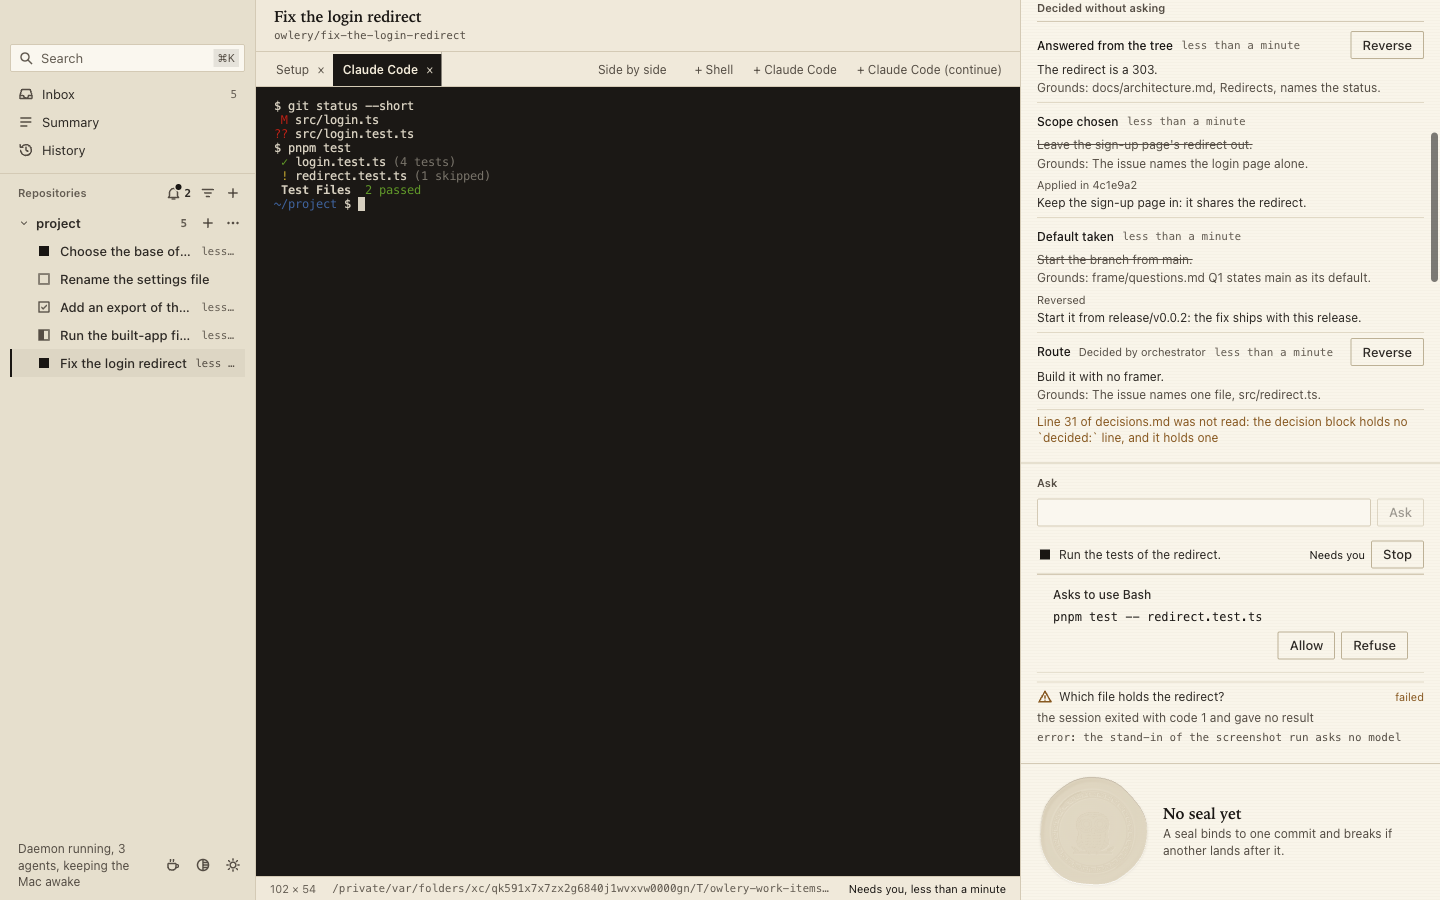
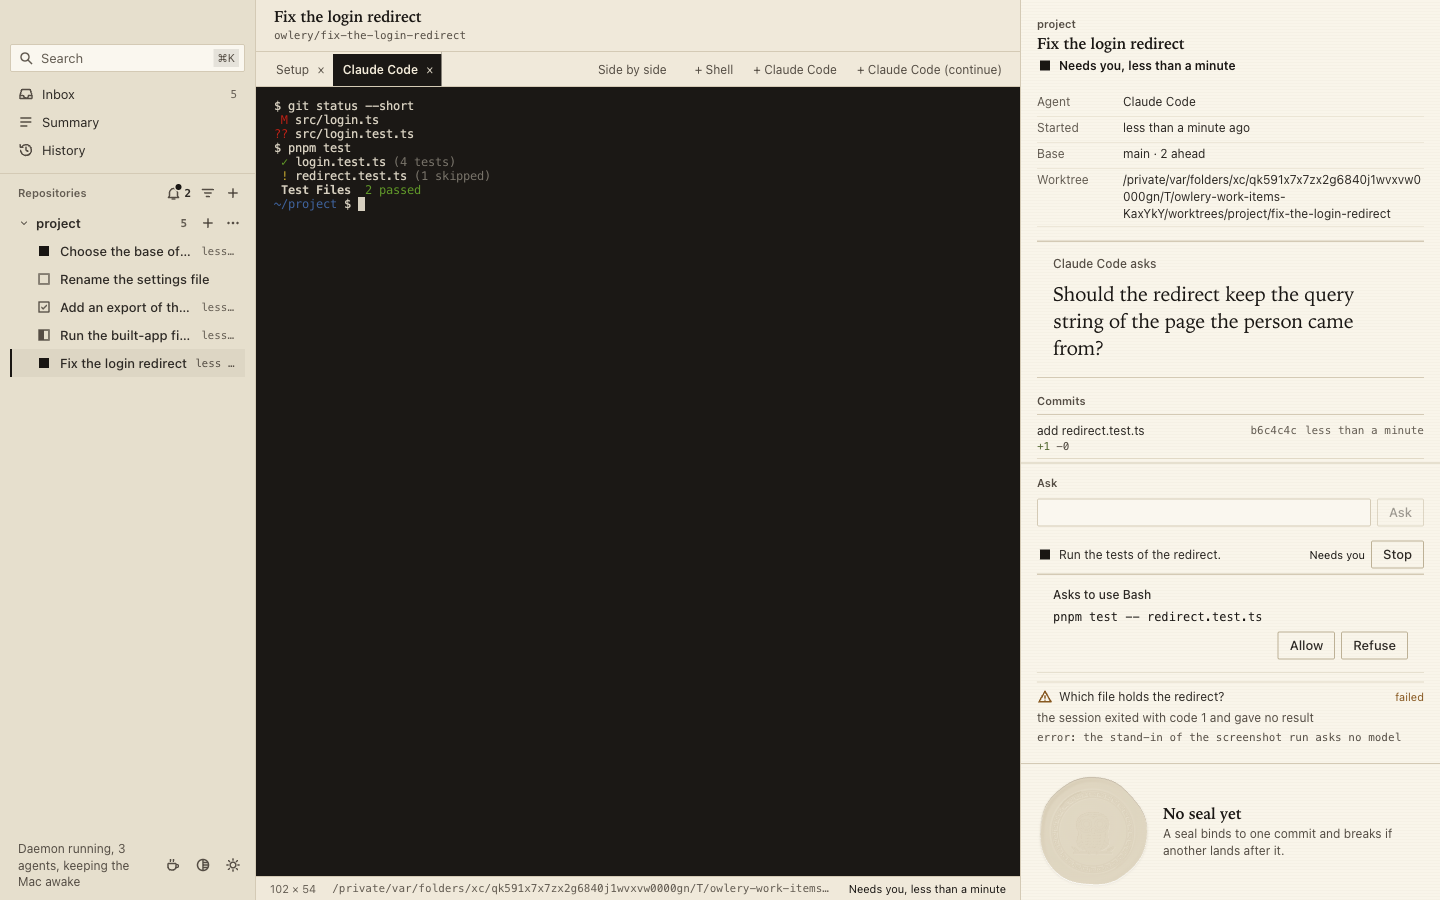
test: give the screenshot run's view work item no decision and a setup that succeeds, and make its twelve shots again
The work item whose session asks to allow a command carried the decision
mark and "Setup failed" on its inbox line, which took the second row's
width before the request's text, so the inbox shots read "Asks..." alone.
The run now writes no decision record into that work item and ends its
setup with code 0, so its line shows "Asks to use Bash: " and the command
whole. The other work items are made as before. Both editions of
docs/design.md describe the run as it now is.

Seal-Routing: 1795338000-role-tools-and-permissions

diff --git a/apps/desktop/test/screenshots.test.ts b/apps/desktop/test/screenshots.test.ts
@@ -10,17 +10,16 @@
 // and holds the second, whose session asks the person to allow a command and
 // gets no answer, so the work item's line says the request and the view's
 // "Ask" section shows its card. The run waits until the section shows that
-// request before its first shot. No stage runs either: the decisions made without
-// asking and the questions are blocks the run writes into the two work
-// items' records, which the daemon reads in their worktrees. The repository
-// names a setup once three work items stand, so the one at work shows its
-// setup running, the one in the view has a setup that failed, with the paths
-// it copied and one it could not, and the form names the setup's command;
-// no setup's command runs, and the run types the code a setup pane ends
-// with. The side column of a view holds more than the window shows at once,
-// so the run scrolls it: the view's shot opens at the decisions made without
-// asking, with the "Setup" section below what it shows, and the parked
-// view's shot opens at the column's top, where its questions stand. With
+// request before its first shot. That work item carries no decision made
+// without asking and no setup's words on its line, so the line's second row
+// gives its whole width to the request. No stage runs either: the questions
+// are blocks the run writes into the parked work item's record, which the
+// daemon reads in its worktree. The repository names a setup once three
+// work items stand, so the one at work shows its setup running, the one in
+// the view has a setup that succeeded, with the paths it copied, and the
+// form names the setup's command; no setup's command runs, and the run
+// types the code a setup pane ends with. Each view's shot opens at the top
+// of its side column, where the parked view's questions stand. With
 // `OWLERY_SCREENSHOT_THEMES` it captures other themes too: `all`, or names
 // with commas between them. It writes into `screenshots/<the run's start>`
 // under the app's folder, or into the folder `OWLERY_SCREENSHOT_DIR` names.
@@ -29,10 +28,10 @@
 // carries the files.
 import { createHash } from "node:crypto";
 import { execFileSync } from "node:child_process";
-import { chmodSync, mkdirSync, readFileSync, rmSync, writeFileSync } from "node:fs";
+import { mkdirSync, readFileSync, rmSync, writeFileSync } from "node:fs";
 import { dirname, join, resolve } from "node:path";
 import { afterAll, beforeAll, describe, expect, it } from "vitest";
-import { RECORD_FILE, withApplied, withDecision, withQuestion, withReversal } from "../src/daemon/decision-record";
+import { RECORD_FILE, withQuestion } from "../src/daemon/decision-record";
 import { MARKER } from "../src/daemon/records-place";
 import { WINDOW_SIZE } from "../src/main/window-size";
 import type { ClientMessage, ServerMessage, SessionInfo, WorkItem, WorktreeSetup } from "../src/shared/protocol";
@@ -56,12 +55,12 @@ const SAMPLE_PANE = join(__dirname, "fixtures", "sample-pane.sh");
  * is the one whose view and menu are captured, and it is the one that needs
  * the person.
  */
-const WORK_ITEMS: { title: string; kind: "shell" | "claude"; events: Record<string, unknown>[]; setup: "running" | "failed" | null }[] = [
+const WORK_ITEMS: { title: string; kind: "shell" | "claude"; events: Record<string, unknown>[]; setup: "running" | "succeeded" | null }[] = [
   { title: "Choose the base of the hotfix", kind: "shell", events: [], setup: null },
   { title: "Rename the settings file", kind: "shell", events: [], setup: null },
   { title: "Add an export of the history", kind: "claude", events: [{ hook_event_name: "UserPromptSubmit" }, { hook_event_name: "Stop", last_assistant_message: "The history exports as a CSV file from the menu of the history screen, and four cases hold the columns." }], setup: null },
   { title: "Run the built-app files one at a time", kind: "claude", events: [{ hook_event_name: "UserPromptSubmit" }, { hook_event_name: "PreToolUse", tool_name: "Bash" }], setup: "running" },
-  { title: "Fix the login redirect", kind: "claude", events: [{ hook_event_name: "UserPromptSubmit" }, { hook_event_name: "Notification", message: "Should the redirect keep the query string of the page the person came from?" }], setup: "failed" },
+  { title: "Fix the login redirect", kind: "claude", events: [{ hook_event_name: "UserPromptSubmit" }, { hook_event_name: "Notification", message: "Should the redirect keep the query string of the page the person came from?" }], setup: "succeeded" },
 ];
 /**
  * The ignored files of the repository's main checkout, each with what it
@@ -73,32 +72,14 @@ const IGNORED: Record<string, string> = {
   "node_modules/left-pad/index.js": "module.exports = (text) => text;\n",
   "certs/localhost-key.pem": "-----BEGIN PRIVATE KEY-----\n",
 };
-/** The file of `IGNORED` nobody may read once the work item whose setup fails is made, so its setup cannot copy it. */
-const UNREADABLE = "certs/localhost-key.pem";
 /** What the main checkout's `.worktreeinclude` and `.worktreesetup` hold where a work item is made with a setup. No pane of the run runs the command. */
 const SETUP_FILES = { ".worktreeinclude": ".env\n**/.env.local\nnode_modules/\n*.pem\n", ".worktreesetup": "pnpm install\n" };
-/** The code the setup pane of a work item whose setup fails ends with, as the run types it into the pane. */
-const SETUP_FAILS_WITH = 1;
+/** The code the setup pane of a work item whose setup succeeds ends with, as the run types it into the pane. */
+const SETUP_ENDS_WITH = 0;
 /** The last work item made. */
 const SHOWN = WORK_ITEMS[WORK_ITEMS.length - 1]?.title ?? "";
 /** The first work item made, which the run parks with `QUESTIONS`. Its view is the view "parked". */
 const PARKED = WORK_ITEMS[0]?.title ?? "";
-/**
- * The decisions made without asking that the run writes into the shown work
- * item's record, in the record's order: one that stands and says who decided,
- * one the person reversed, with the message, one a stage applied after its
- * reversal, and one that stands and names no one.
- */
-const DECISIONS = [
-  { kind: "route", decided: "Build it with no framer.", grounds: "The issue names one file, src/redirect.ts.", by: "orchestrator" },
-  { kind: "default", decided: "Start the branch from main.", grounds: "frame/questions.md Q1 states main as its default." },
-  { kind: "scope", decided: "Leave the sign-up page's redirect out.", grounds: "The issue names the login page alone." },
-  { kind: "answered", decided: "The redirect is a 303.", grounds: "docs/architecture.md, Redirects, names the status." },
-] as const;
-const REVERSAL = "Start it from release/v0.0.2: the fix ships with this release.";
-const TAKEN_IN = "Keep the sign-up page in: it shares the redirect.";
-/** A block the record's reader refuses, a decision with no `decided:` line, which the view names as a line that was not read. */
-const REFUSED = "```seal\ndecision: 9 scope\n```\n";
 /** The questions the parked work item waits on. */
 const QUESTIONS = [
   { asks: "Which base does the hotfix merge into?", grounds: "No document names the base of a hotfix, and the choice decides which release ships it.", by: "sealer", options: [{ label: "main", implies: "It waits for the next release." }, { label: "release/v0.0.2", implies: "It ships with this release." }], default: "release/v0.0.2" },
@@ -218,17 +199,12 @@ describe.skipIf(!RUN)("the screenshots of the built app", () => {
     return (await listed()).workItems.find((item) => item.title === title)?.setup ?? null;
   }
 
-  /**
-   * Makes the main checkout name a setup, or none, before a work item is
-   * made: its two files, and `UNREADABLE` read by nobody where the setup is
-   * to fail, and readable by its owner otherwise.
-   */
-  function nameSetup(setup: "running" | "failed" | null): void {
+  /** Makes the main checkout name a setup, or none, before a work item is made: its two files. */
+  function nameSetup(setup: "running" | "succeeded" | null): void {
     for (const [file, text] of Object.entries(SETUP_FILES)) {
       if (setup === null) rmSync(join(made.repo, file), { force: true });
       else writeFileSync(join(made.repo, file), text);
     }
-    chmodSync(join(made.repo, UNREADABLE), setup === "failed" ? 0o000 : 0o600);
   }
 
   /** Hands the daemon a hook's event for a pane, as the hook's own command does: the pane's id on a line and the event's JSON after it, to the socket named from inside its folder. */
@@ -271,14 +247,10 @@ describe.skipIf(!RUN)("the screenshots of the built app", () => {
     view: async () => {
       await app.click(SIDEBAR_LINE);
       await app.until(`!document.getElementById("work-item-view").hidden && document.getElementById("view-title").textContent === ${JSON.stringify(SHOWN)} && document.querySelector("#stage .pane .xterm-scrollable-element") && document.querySelector("#view-detail section.setup")`, "the work item's view with its terminal and its setup");
-      // The decisions stand below what the agent asks, and the commits, the changes and the "Setup" section below them, so the side column scrolls until the decisions open what it shows.
-      await app.evaluate(`document.querySelector("#view-detail section.decisions").scrollIntoView({ block: "start", behavior: "instant" })`);
     },
     parked: async () => {
       await app.click(PARKED_LINE);
       await app.until(`!document.getElementById("work-item-view").hidden && document.getElementById("view-title").textContent === ${JSON.stringify(PARKED)} && !document.getElementById("questions").hidden && document.querySelectorAll("#questions fieldset[data-question]").length === ${QUESTIONS.length}`, "the parked work item's view with its questions");
-      // The questions stand first in the side column, which may still be where the view's shot scrolled it.
-      await app.evaluate(`document.getElementById("view-scroll").scrollTop = 0`);
     },
     menu: async () => {
       await show.inbox();
@@ -344,9 +316,9 @@ describe.skipIf(!RUN)("the screenshots of the built app", () => {
       if (begun?.state !== "running" || begun.paneId === null) throw new Error(`the setup of ${title} is not running in a pane: ${JSON.stringify(begun)}`);
       if (setup === "running") continue;
       // The setup pane waits for the code its command ends with, on a line.
-      await listed({ type: "input", id: begun.paneId, data: `${SETUP_FAILS_WITH}\n` });
-      for (const deadline = Date.now() + 15_000; (await setupOf(title))?.state !== "failed"; await new Promise((resolve) => setTimeout(resolve, 100))) {
-        if (Date.now() >= deadline) throw new Error(`the setup of ${title} never failed`);
+      await listed({ type: "input", id: begun.paneId, data: `${SETUP_ENDS_WITH}\n` });
+      for (const deadline = Date.now() + 15_000; (await setupOf(title))?.state !== "succeeded"; await new Promise((resolve) => setTimeout(resolve, 100))) {
+        if (Date.now() >= deadline) throw new Error(`the setup of ${title} never succeeded: ${JSON.stringify(await setupOf(title))}`);
       }
     }
     await app.until(`document.getElementById("strip-state").classList.contains("waiting")`, `${SHOWN} as the one that needs the person`);
@@ -358,20 +330,14 @@ describe.skipIf(!RUN)("the screenshots of the built app", () => {
     commitFile(shown.worktree, "redirect.test.ts");
     await app.until(`document.querySelectorAll("#view-detail .commit").length === 2 && document.querySelectorAll("#view-detail .file").length === 2`, "the two commits and the two changed files", 15_000);
 
-    // The records of two work items, written into their worktrees as a stage would write them: the directory with the routing that names the branch, and the record. The daemon reads each at its next pass.
-    const record = (title: string, text: string): void => {
-      const item = planted.find((workItem) => workItem.title === title);
-      if (!item) throw new Error(`the daemon lists no work item ${title}`);
-      const directory = join(item.worktree, "seal", "threads", `1-${item.branch.replace(/^.*\//, "")}`);
-      mkdirSync(directory, { recursive: true });
-      writeFileSync(join(item.worktree, "seal", "README.md"), `${MARKER}\n`);
-      writeFileSync(join(directory, "routing.md"), `| Axis | Answer |\n|---|---|\n| Review | through the review chain |\n| Destination | open the pull request |\n| Branch | ${item.branch} |\n`);
-      writeFileSync(join(directory, RECORD_FILE), text);
-    };
-    const planted = (await listed()).workItems;
-    record(SHOWN, withApplied(withReversal(withReversal(DECISIONS.reduce(withDecision, ""), 2, REVERSAL), 3, TAKEN_IN), 3, "4c1e9a2") + REFUSED);
-    record(PARKED, QUESTIONS.reduce(withQuestion, ""));
-    await app.until(`document.querySelectorAll("#view-detail .decision").length === ${DECISIONS.length} && document.querySelector("#view-detail .decisions .unread")`, "the decisions and the line that was not read", 15_000);
+    // The parked work item's record, written into its worktree as a stage would write it: the directory with the routing that names the branch, and the record. The daemon reads it at its next pass.
+    const parked = (await listed()).workItems.find((workItem) => workItem.title === PARKED);
+    if (!parked) throw new Error(`the daemon lists no work item ${PARKED}`);
+    const directory = join(parked.worktree, "seal", "threads", `1-${parked.branch.replace(/^.*\//, "")}`);
+    mkdirSync(directory, { recursive: true });
+    writeFileSync(join(parked.worktree, "seal", "README.md"), `${MARKER}\n`);
+    writeFileSync(join(directory, "routing.md"), `| Axis | Answer |\n|---|---|\n| Review | through the review chain |\n| Destination | open the pull request |\n| Branch | ${parked.branch} |\n`);
+    writeFileSync(join(directory, RECORD_FILE), QUESTIONS.reduce(withQuestion, ""));
     await app.until(`document.querySelector('${PARKED_LINE} .state-icon.waiting')`, "the parked work item as one that needs the person", 15_000);
 
     // A prompt asked in the view, which the stand-in for the CLI fails.

diff --git a/docs/design.ko.md b/docs/design.ko.md
@@ -485,7 +485,7 @@ check: apps/desktop/test/themes.test.ts
 
 창을 바꾸는 PR은 바꾼 화면마다 스크린샷을 싣습니다. Night watch의 어두운 모양과 밝은 모양으로 싣고, 바뀐 부분을 다르게 그리는 다른 테마로도 싣습니다. 리뷰는 스크린샷을 이 문서에 대어 읽습니다. 형태는 「부분과 그 상태」에, 값은 「토큰」에, 문구는 「창의 문구가 가진 말투」에, 전체는 「원칙」과 「피하는 것」에 대어 읽습니다. 스크린샷은 빌드한 앱에서 만들고, 화면은 작업함, 작업 화면, 질문 때문에 멈춰 둔 작업의 화면, 메뉴, 대화 상자입니다.
 
-**스크린샷은 `apps/desktop`에서 `pnpm run screenshots`를 실행해 만듭니다.** 이 명령은 앱을 빌드해 백그라운드로 띄우므로, 창은 실행한 사람의 키보드도 포인터도 가져가지 않습니다. 앱은 지어낸 작업 다섯 개가 있는 임시 저장소에서 열립니다. 하나는 사람이 필요하고, 하나는 일하는 중이고, 하나는 끝났고, 하나는 잠들어 있고, 하나는 질문 두 개 때문에 멈춰 있습니다. 작업 화면에 뜨는 작업은 사람이 필요한 작업입니다. 거기서 물은 프롬프트 하나는 실패해 있고, 두 번째로 물은 프롬프트의 세션은 명령 하나를 허락해 달라며 사람을 기다립니다. 그래서 스크린샷에는 모든 상태의 표시와 문구가 나오고, 허락을 구하는 호출의 카드도 나옵니다. 그 작업의 기록에는 묻지 않고 내린 결정이 네 개 있고, 그중 하나는 뒤집혔고 하나는 반영됐으며, 읽지 못한 블록도 하나 있습니다. 에이전트도 단계도 실행하지 않습니다. 패널의 프로세스는 픽스처이고, 상태는 실행이 데몬에 알려 준 값이며, 결정과 질문은 실행이 작업의 기록에 써 넣은 블록입니다. 명령은 Night watch의 두 모양마다 다섯 화면을 창 크기인 1440 x 900의 PNG 파일로 하나씩 씁니다. 파일은 열 개이고 이름은 `<theme>-<appearance>-<view>.png`입니다. `OWLERY_SCREENSHOT_THEMES`로 테마를 더합니다. `all`이면 모든 테마이고, `register,desk`처럼 쉼표로 이름을 이어 적을 수도 있습니다. 파일은 `apps/desktop/screenshots/` 아래, 실행을 시작한 시각을 이름으로 한 폴더에 들어가고, git은 이 폴더를 무시합니다. `OWLERY_SCREENSHOT_DIR`에 폴더를 적으면 그 폴더에 들어갑니다.
+**스크린샷은 `apps/desktop`에서 `pnpm run screenshots`를 실행해 만듭니다.** 이 명령은 앱을 빌드해 백그라운드로 띄우므로, 창은 실행한 사람의 키보드도 포인터도 가져가지 않습니다. 앱은 지어낸 작업 다섯 개가 있는 임시 저장소에서 열립니다. 하나는 사람이 필요하고, 하나는 일하는 중이고, 하나는 끝났고, 하나는 잠들어 있고, 하나는 질문 두 개 때문에 멈춰 있습니다. 작업 화면에 뜨는 작업은 사람이 필요한 작업입니다. 거기서 물은 프롬프트 하나는 실패해 있고, 두 번째로 물은 프롬프트의 세션은 명령 하나를 허락해 달라며 사람을 기다립니다. 그래서 스크린샷에는 모든 상태의 표시와 문구가 나오고, 허락을 구하는 호출의 카드도 나옵니다. 그 작업에는 묻지 않고 내린 결정도, 셋업의 문구도 없어서, 줄의 둘째 행은 폭을 모두 그 호출에 씁니다. 에이전트도 단계도 실행하지 않습니다. 패널의 프로세스는 픽스처이고, 상태는 실행이 데몬에 알려 준 값이며, 질문은 실행이 멈춰 둔 작업의 기록에 써 넣은 블록입니다. 명령은 Night watch의 두 모양마다 다섯 화면을 창 크기인 1440 x 900의 PNG 파일로 하나씩 씁니다. 파일은 열 개이고 이름은 `<theme>-<appearance>-<view>.png`입니다. `OWLERY_SCREENSHOT_THEMES`로 테마를 더합니다. `all`이면 모든 테마이고, `register,desk`처럼 쉼표로 이름을 이어 적을 수도 있습니다. 파일은 `apps/desktop/screenshots/` 아래, 실행을 시작한 시각을 이름으로 한 폴더에 들어가고, git은 이 폴더를 무시합니다. `OWLERY_SCREENSHOT_DIR`에 폴더를 적으면 그 폴더에 들어갑니다.
 check: apps/desktop/test/screenshots.test.ts
 
 **파일은 변경과 함께 커밋하고, PR 본문은 파일마다 `![보여 주는 것](../blob/<commit>/<path>?raw=true)`로 보여 줍니다.** 파일은 `seal/threads/` 아래 그 PR의 기록에 커밋합니다. `<commit>`은 파일이 든 커밋의 전체 ID이고, `<path>`는 저장소 루트에서 본 파일의 경로입니다. GitHub는 이 링크를 PR의 주소에서부터 읽습니다. GitHub 문서가 PR에서 저장소의 이미지를 보일 때 쓰라고 적은 형식이 이것입니다. `images/inbox.png`처럼 트리의 Markdown 파일이 이미지를 거는 방식으로 적은 경로는 PR 본문에서 그려지지 않습니다. 링크에는 브랜치가 아닌 커밋을 적습니다. 그래야 그 뒤에 브랜치에 무엇이 올라와도 본문이 그 커밋에서 만든 이미지를 보여 줍니다.

diff --git a/docs/design.md b/docs/design.md
@@ -485,7 +485,7 @@ The neighbours fall into two camps. Orca, Conductor and Linear draw in neutral b
 
 A pull request that changes the window carries a screenshot of each view it changed, in Night watch's dark and light appearances, and in each other theme that draws the changed part differently. Its review reads the screenshots against this document: each form against *Components and their states*, each value against *Tokens*, each word against *The voice of the window's words*, and the whole against *Principles* and *What to avoid*. A screenshot is made from the built app, and the views are the inbox, a work item's view, the view of a work item parked with questions, a menu and a dialog.
 
-**`pnpm run screenshots`, run in `apps/desktop`, makes the screenshots.** It builds the app and starts it in the background, so the window takes neither the keyboard nor the pointer of the person who runs it. The app opens on a temporary repository with five invented work items: one needs the person, one is at work, one is finished, one is asleep and one is parked with two questions. The view's work item is the one that needs the person. A prompt asked in it has failed, and the session of a second prompt waits for the person to allow a command, so the screens show the mark and the words of every state, and the card of a call to allow. Its record holds four decisions made without asking, one of them reversed and one applied, and a block that was not read. No agent and no stage runs: a pane's process is a fixture, a state is what the run tells the daemon, and a decision and a question are blocks the run writes into a work item's record. The command writes one PNG file of the window's size, 1440 by 900, for each of the five views in each appearance of Night watch, ten files named `<theme>-<appearance>-<view>.png`. `OWLERY_SCREENSHOT_THEMES` adds themes: `all` for every theme, or names with commas between them, such as `register,desk`. The files go into `apps/desktop/screenshots/`, in a folder named by the time the run started, which git ignores. Where `OWLERY_SCREENSHOT_DIR` names a folder, they go there.
+**`pnpm run screenshots`, run in `apps/desktop`, makes the screenshots.** It builds the app and starts it in the background, so the window takes neither the keyboard nor the pointer of the person who runs it. The app opens on a temporary repository with five invented work items: one needs the person, one is at work, one is finished, one is asleep and one is parked with two questions. The view's work item is the one that needs the person. A prompt asked in it has failed, and the session of a second prompt waits for the person to allow a command, so the screens show the mark and the words of every state, and the card of a call to allow. It carries no decision made without asking and no words of its setup, so its line's second row gives its whole width to the call. No agent and no stage runs: a pane's process is a fixture, a state is what the run tells the daemon, and a question is a block the run writes into the parked work item's record. The command writes one PNG file of the window's size, 1440 by 900, for each of the five views in each appearance of Night watch, ten files named `<theme>-<appearance>-<view>.png`. `OWLERY_SCREENSHOT_THEMES` adds themes: `all` for every theme, or names with commas between them, such as `register,desk`. The files go into `apps/desktop/screenshots/`, in a folder named by the time the run started, which git ignores. Where `OWLERY_SCREENSHOT_DIR` names a folder, they go there.
 check: apps/desktop/test/screenshots.test.ts
 
 **The files are committed with the change, and the pull request's body shows each as `![what it shows](../blob/<commit>/<path>?raw=true)`.** They are committed in the pull request's own records under `seal/threads/`. `<commit>` is the full id of the commit that holds the file, and `<path>` is the file's path from the repository's root. GitHub reads that link from the pull request's own address, and it is the form GitHub's documentation gives for an image of the repository in a pull request. A path written as a Markdown file of the tree links an image, such as `images/inbox.png`, is not drawn in a pull request's body. The link names a commit and not the branch, so the image the body shows is the one made at that commit, whatever lands on the branch after it.
